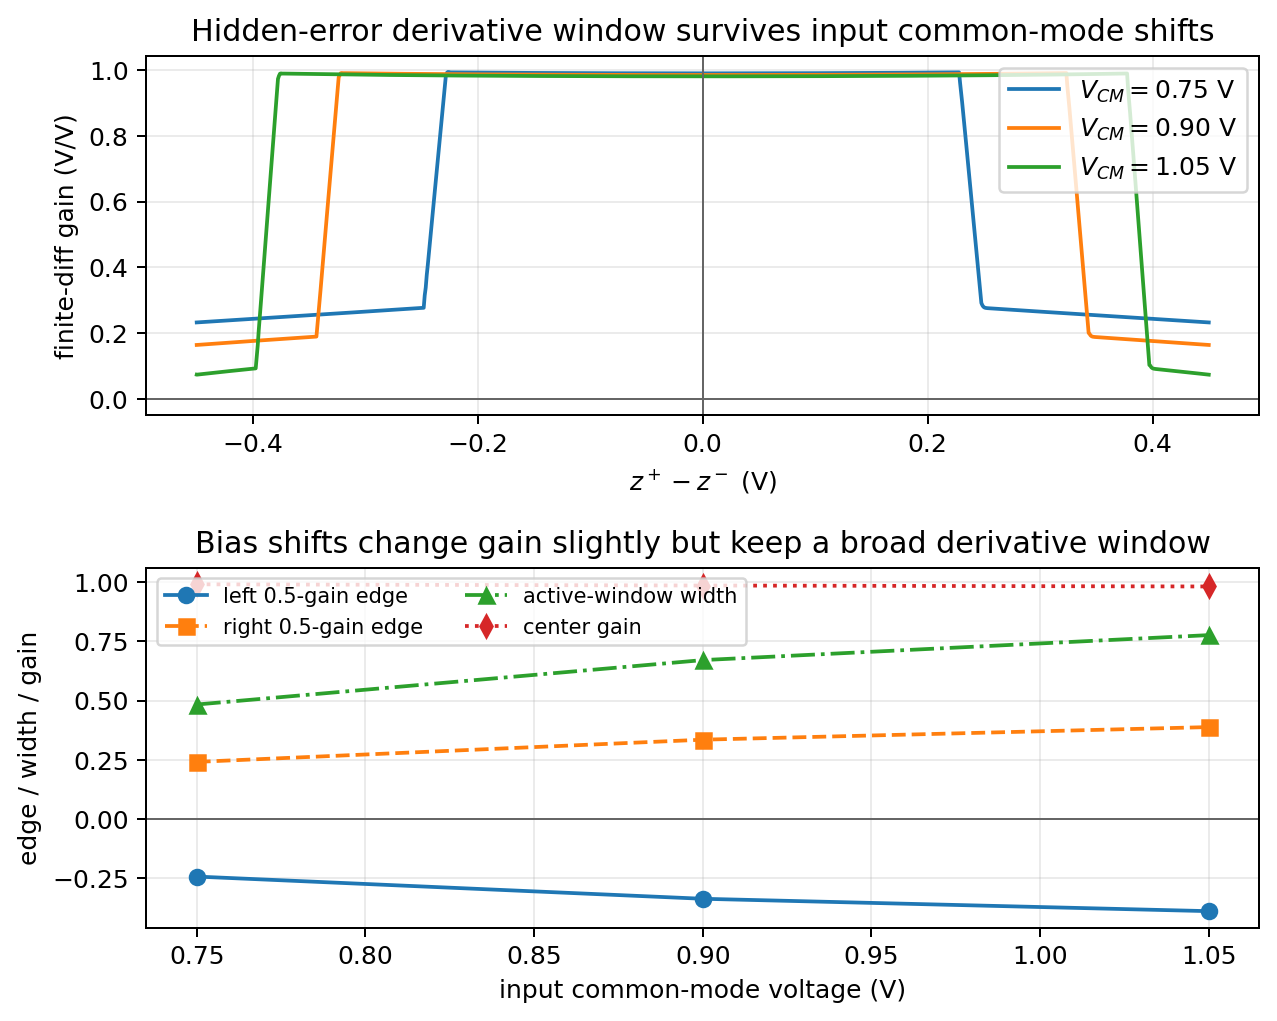
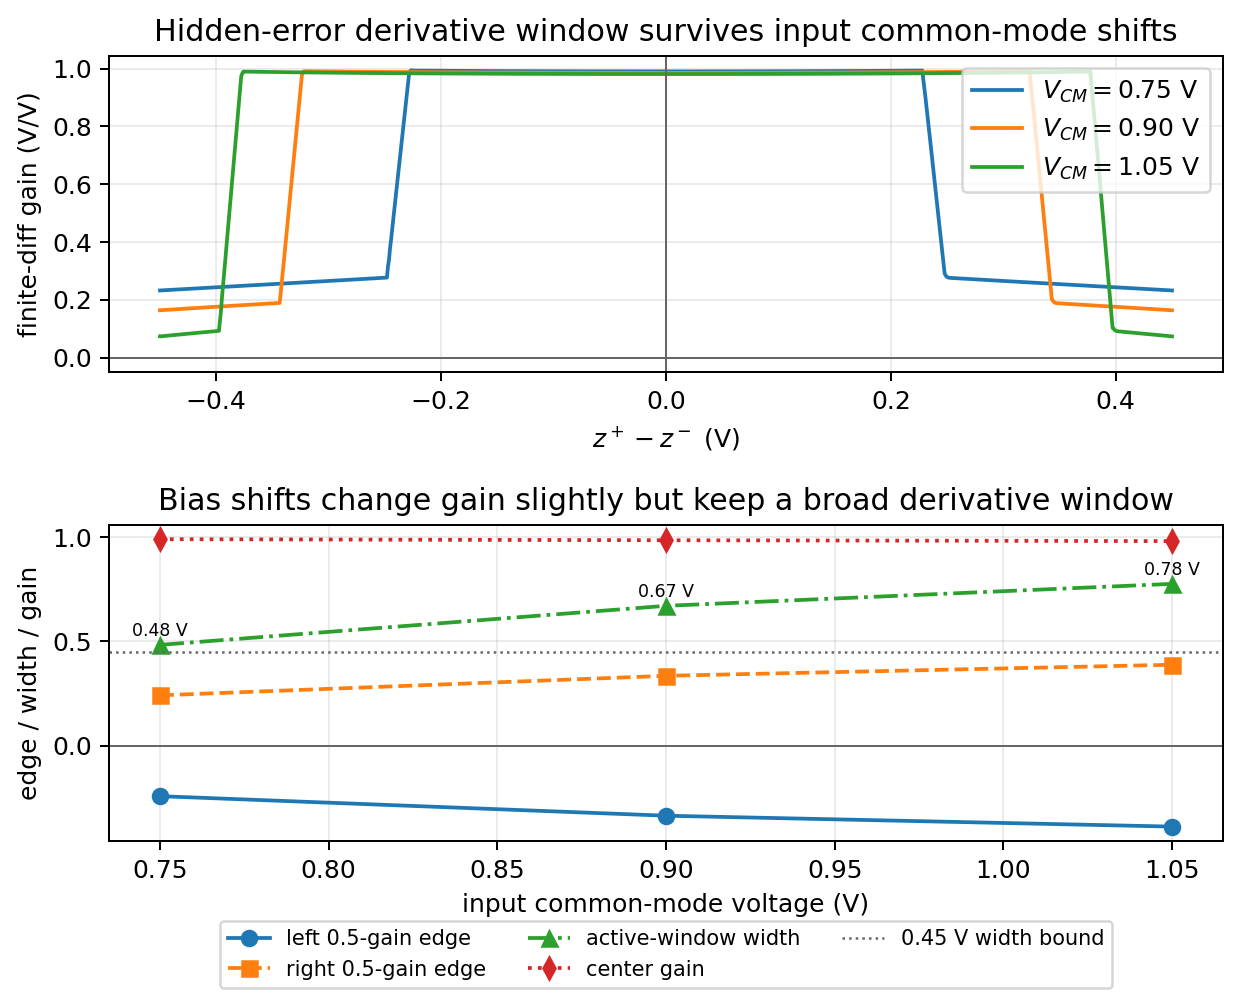
Annotate hidden error window margins

diff --git a/spice/run_mos_cell_characterization.py b/spice/run_mos_cell_characterization.py
@@ -2021,12 +2021,15 @@ quit
     mismatch_axes[1].plot(vt_offsets, mismatch_left_edges, "o-", label="left 0.5-gain edge")
     mismatch_axes[1].plot(vt_offsets, mismatch_right_edges, "s--", label="right 0.5-gain edge")
     mismatch_axes[1].plot(vt_offsets, window_widths, "^-.", label="active-window width")
+    mismatch_axes[1].axhline(0.55, color="0.4", linestyle=":", linewidth=1.0, label="0.55 V width bound")
     mismatch_axes[1].axhline(0, color="0.4", linewidth=0.8)
+    for x, width in zip(vt_offsets, window_widths):
+        mismatch_axes[1].text(x, width + 0.025, f"{width:.2f} V", ha="center", va="bottom", fontsize="x-small")
     mismatch_axes[1].set_xlabel("z+ input device $V_{TO}$ (V)")
     mismatch_axes[1].set_ylabel("window edge / width (V)")
     mismatch_axes[1].set_title("Mismatch shifts both active-window edges while preserving width")
     mismatch_axes[1].grid(True, alpha=0.25)
-    mismatch_axes[1].legend(loc="lower right")
+    mismatch_axes[1].legend(loc="lower right", fontsize="small")
     mismatch_fig.tight_layout()
     save_plot(mismatch_fig, "mos_hidden_error_mismatch_ngspice")
 
@@ -2046,12 +2049,15 @@ quit
     cm_axes[1].plot(cm_values, cm_right_edges, "s--", label="right 0.5-gain edge")
     cm_axes[1].plot(cm_values, cm_window_widths, "^-.", label="active-window width")
     cm_axes[1].plot(cm_values, cm_center_gains, "d:", label="center gain")
+    cm_axes[1].axhline(0.45, color="0.4", linestyle=":", linewidth=1.0, label="0.45 V width bound")
     cm_axes[1].axhline(0, color="0.4", linewidth=0.8)
+    for x, width in zip(cm_values, cm_window_widths):
+        cm_axes[1].text(x, width + 0.025, f"{width:.2f} V", ha="center", va="bottom", fontsize="x-small")
     cm_axes[1].set_xlabel("input common-mode voltage (V)")
     cm_axes[1].set_ylabel("edge / width / gain")
     cm_axes[1].set_title("Bias shifts change gain slightly but keep a broad derivative window")
     cm_axes[1].grid(True, alpha=0.25)
-    cm_axes[1].legend(loc="upper left", ncol=2, fontsize="small")
+    cm_axes[1].legend(loc="upper center", bbox_to_anchor=(0.5, -0.22), ncol=3, fontsize="small")
     cm_fig.tight_layout()
     save_plot(cm_fig, "mos_hidden_error_common_mode_ngspice")
     return hidden_plot

diff --git a/engineering_log.md b/engineering_log.md
@@ -2,6 +2,16 @@
 
 ## 2026-05-25
 
+- Family-completed the active-window margin display for hidden-error
+  derivative plots.  The ngspice assertions already required the finite
+  difference replica gain to stay nonnegative, preserve a broad active window,
+  and attenuate away from the center under both input-pair threshold mismatch
+  and input common-mode shifts.  The regenerated
+  `mos_hidden_error_mismatch_ngspice` plot now draws the asserted \(0.55\) V
+  width bound and labels measured widths of about \(0.68/0.66/0.66\) V.  The
+  regenerated `mos_hidden_error_common_mode_ngspice` plot draws the asserted
+  \(0.45\) V width bound and labels measured widths of about
+  \(0.48/0.67/0.78\) V for \(V_{CM}=0.75/0.90/1.05\) V.
 - Clarified the reusable MOS reset/precharge plot after the assertion evidence
   was stronger than the rendered figure.  The same ngspice deck still checks
   that the transmission-gate reset restores \(z\) common mode, clears
